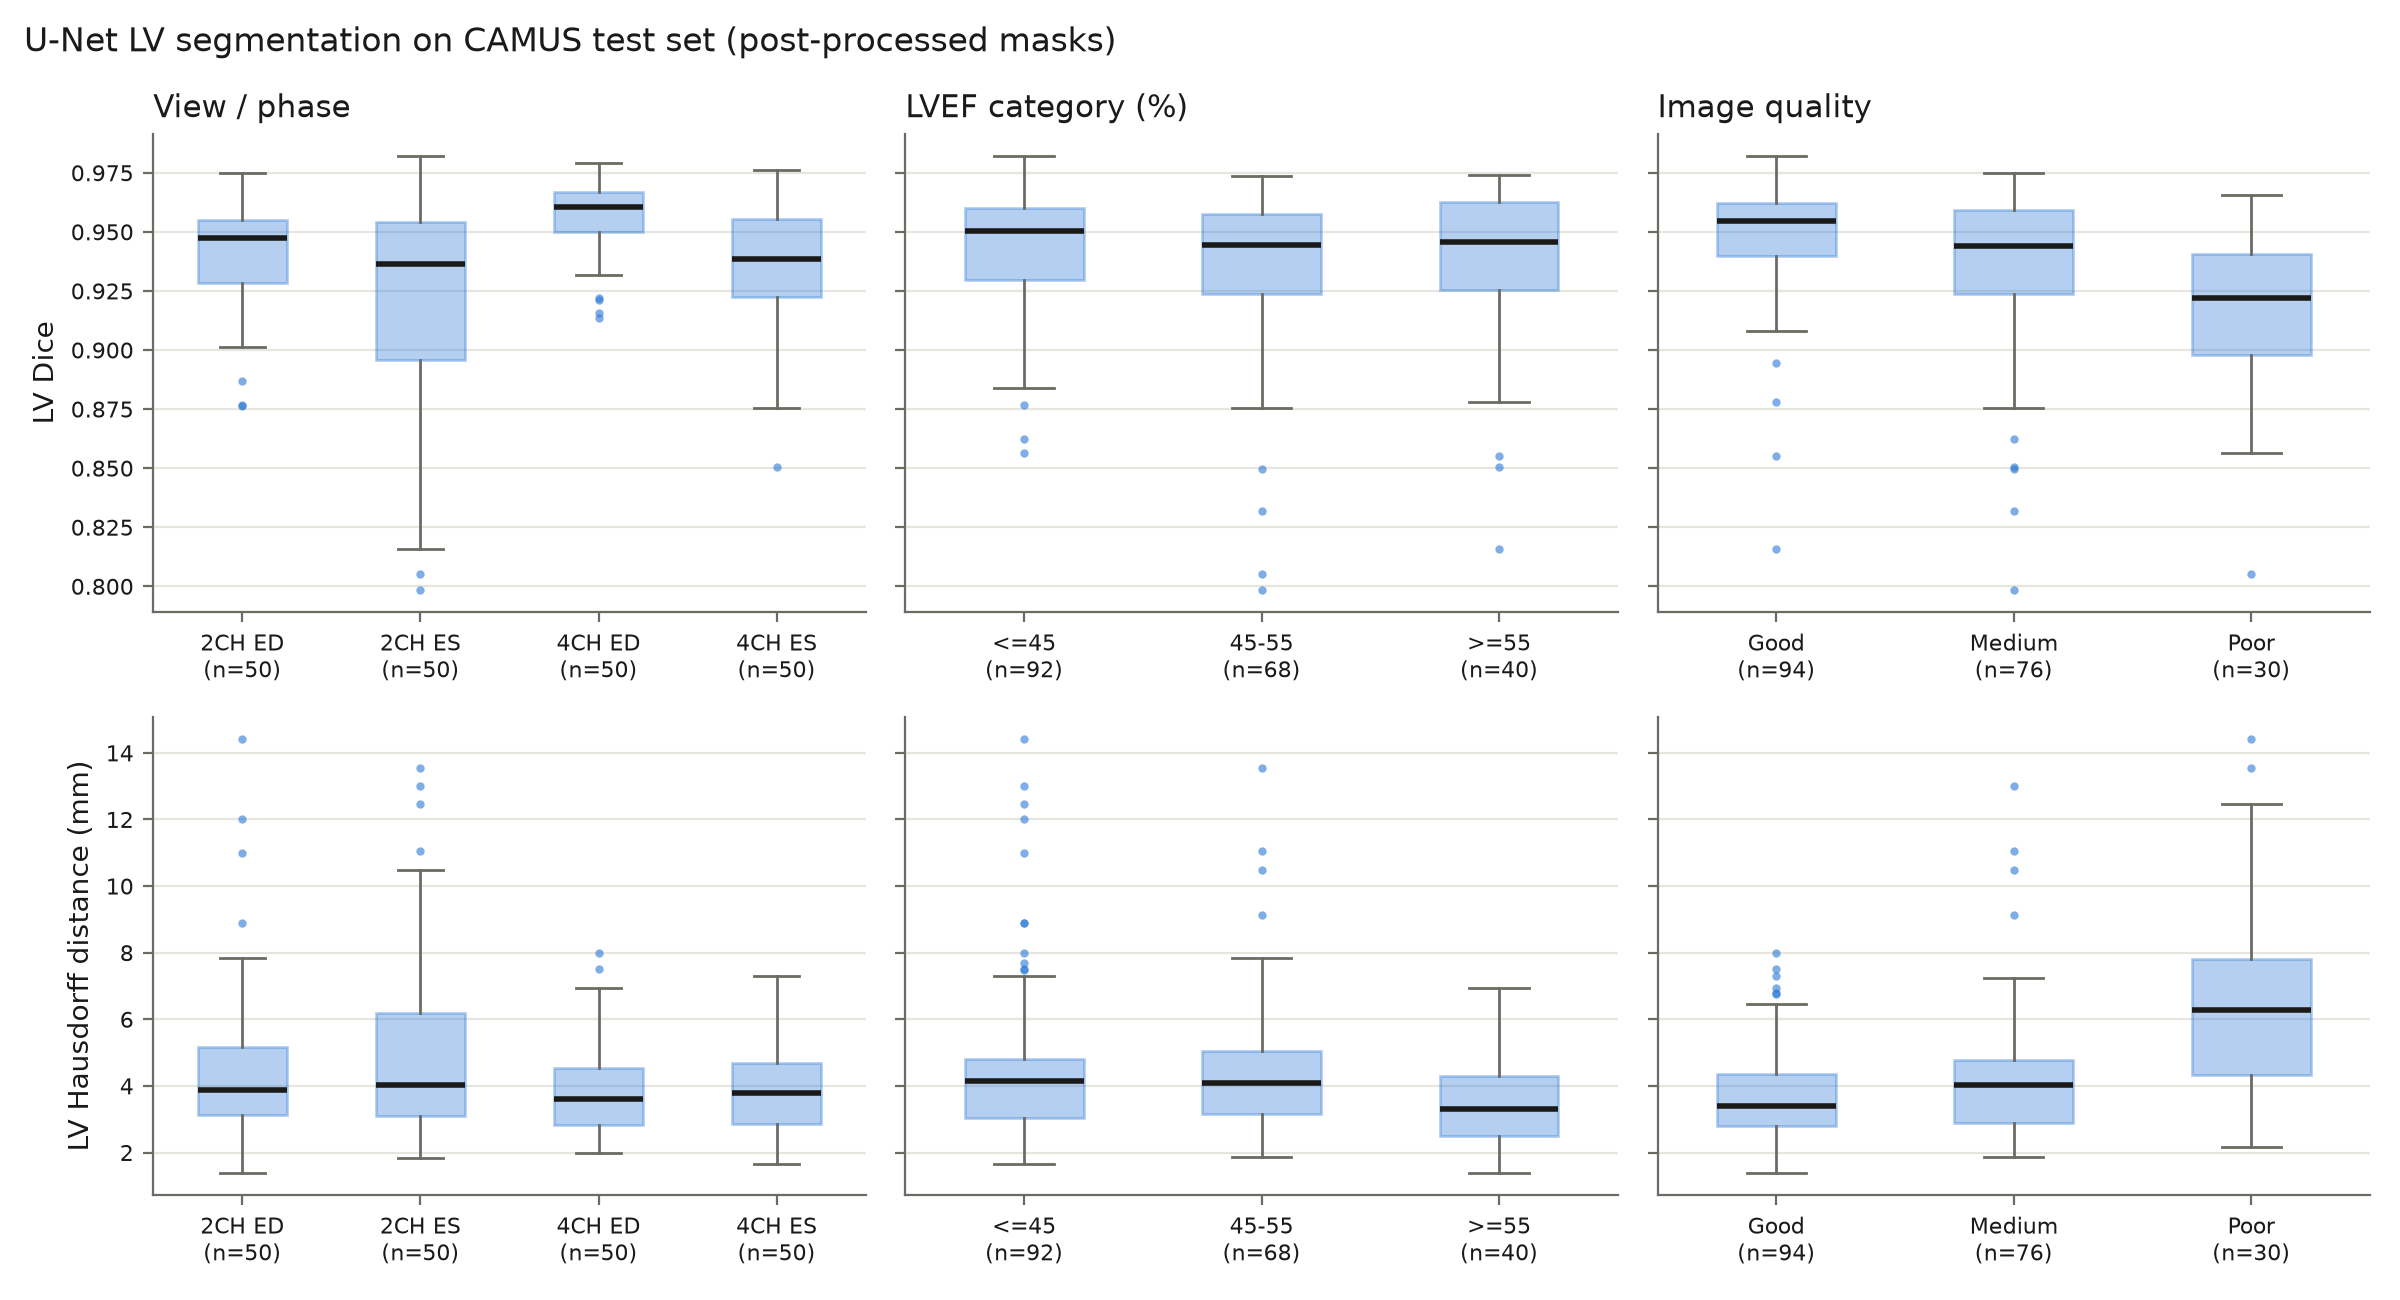
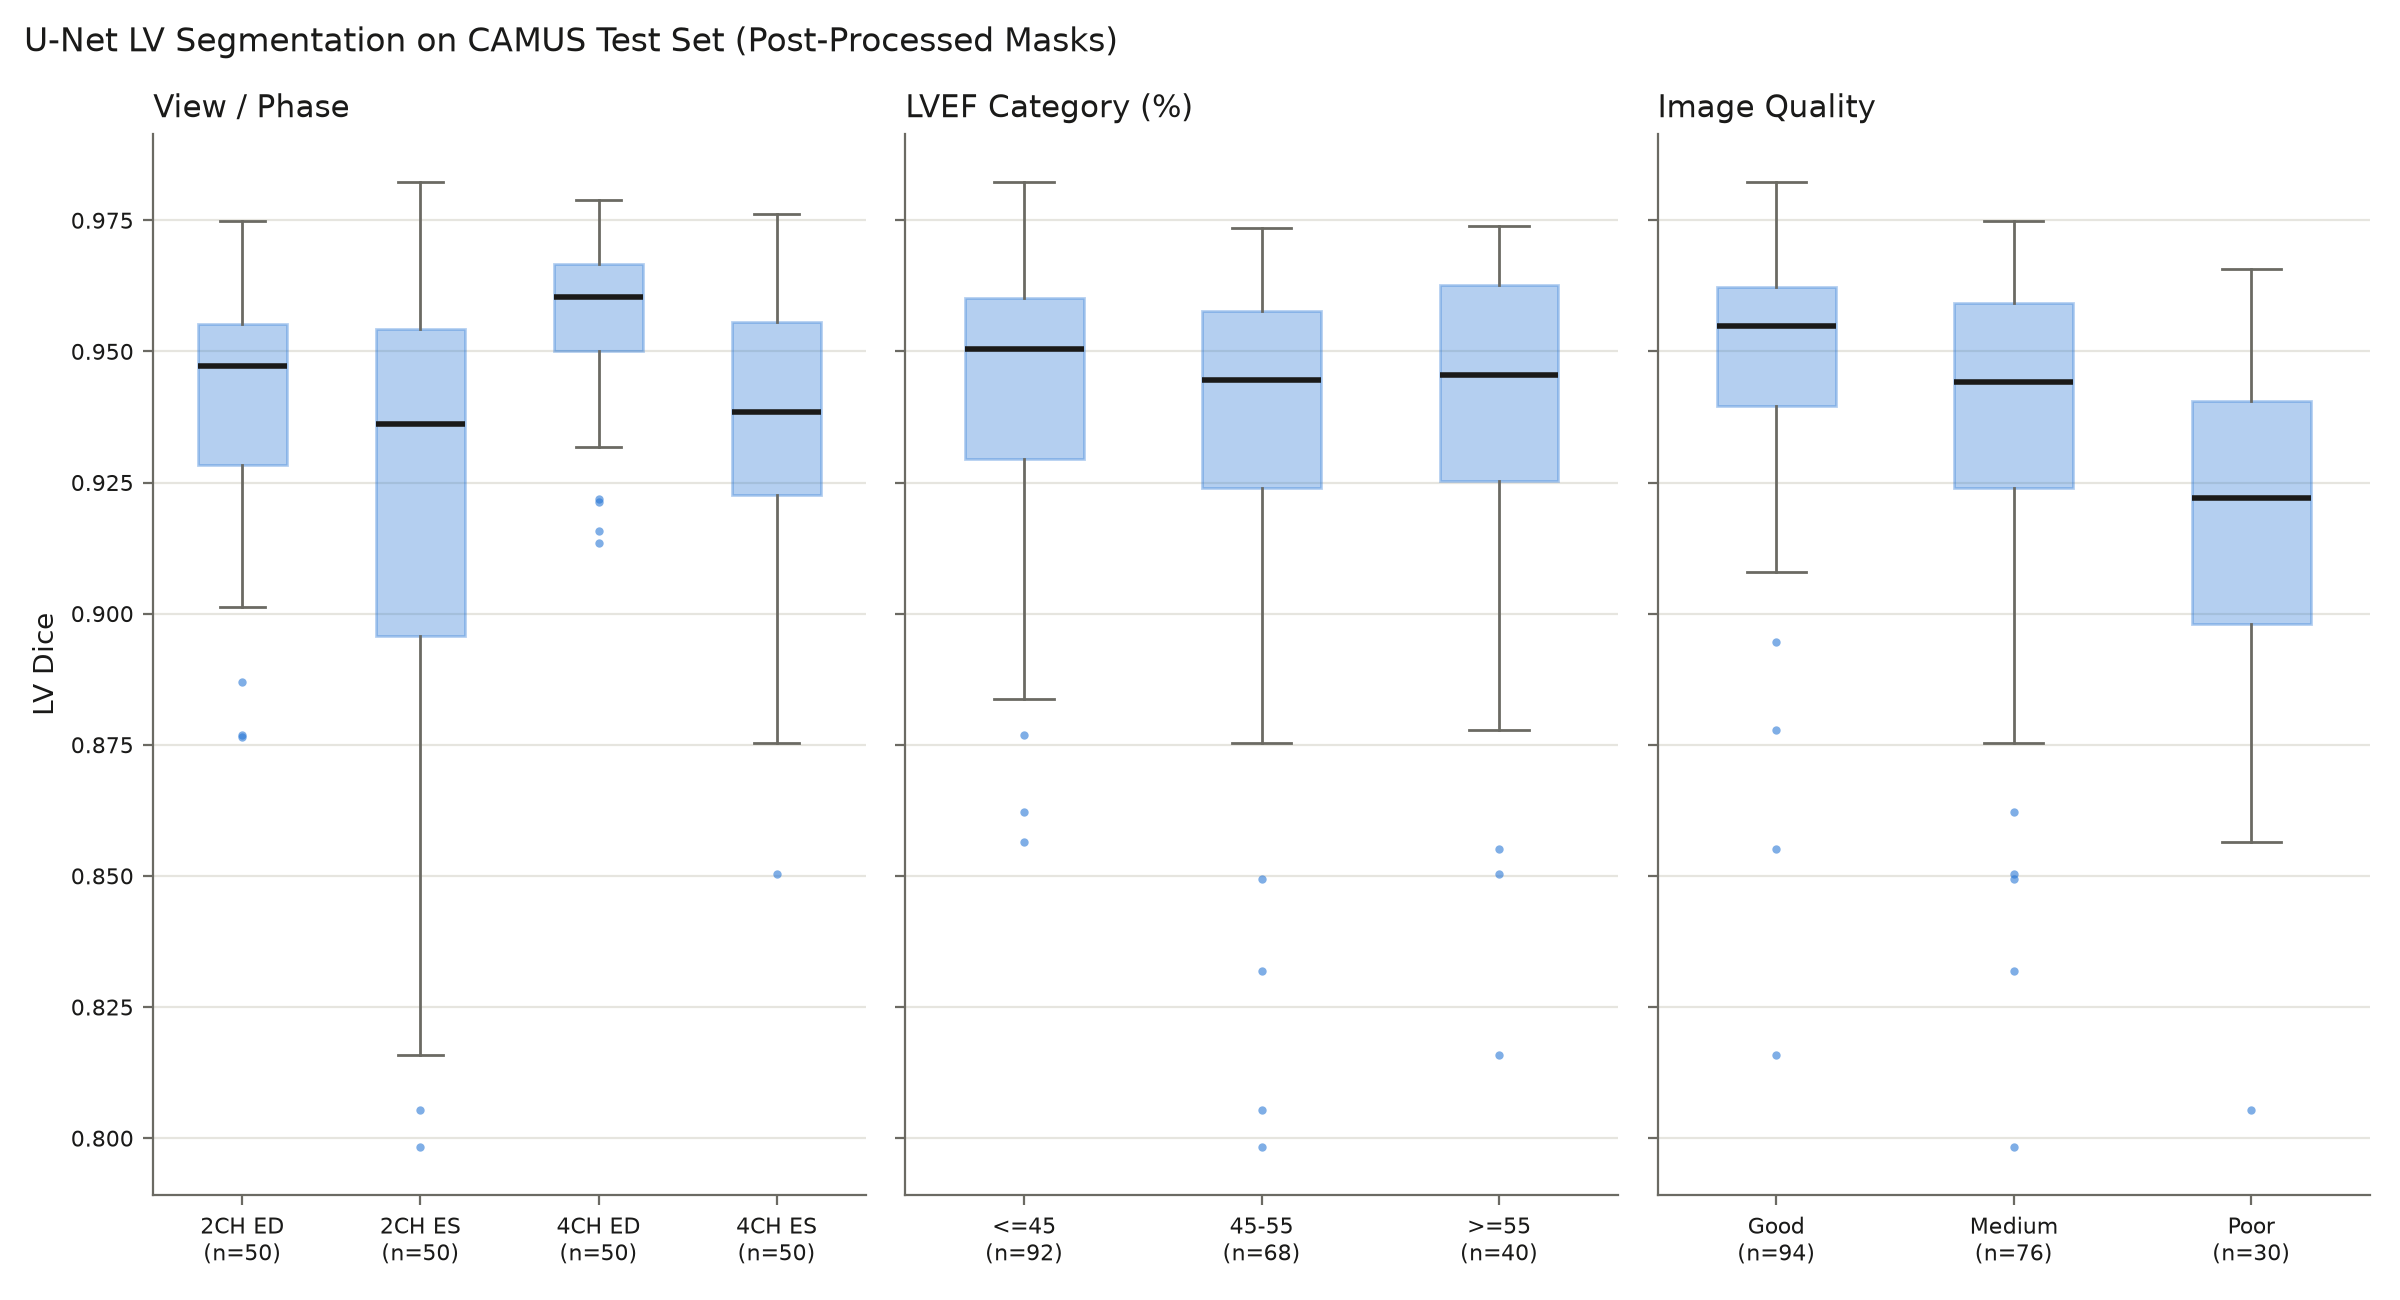
say

diff --git a/sayeh_training/evaluate_dice.py b/sayeh_training/evaluate_dice.py
@@ -83,23 +83,23 @@ def boxpanel(ax, groups, labels, ylabel):
 
 
 def plot(lv, path):
-    fig, axes = plt.subplots(2, 3, figsize=(12, 6.5), sharey="row")
+    fig, axes = plt.subplots(1, 3, figsize=(12, 6.5), sharey="row")
     vp = [(v, p) for v in VIEWS for p in PHASES]
     strat = [
-        ("View / phase", [f"{v} {p}" for v, p in vp],
+        ("View / Phase", [f"{v} {p}" for v, p in vp],
          [(lv.view == v) & (lv.phase == p) for v, p in vp]),
-        ("LVEF category (%)", [c for c in EF_ORDER if (lv.ef_category == c).any()],
+        ("LVEF Category (%)", [c for c in EF_ORDER if (lv.ef_category == c).any()],
          [lv.ef_category == c for c in EF_ORDER if (lv.ef_category == c).any()]),
-        ("Image quality", [q for q in Q_ORDER if (lv.quality == q).any()],
+        ("Image Quality", [q for q in Q_ORDER if (lv.quality == q).any()],
          [lv.quality == q for q in Q_ORDER if (lv.quality == q).any()]),
     ]
     for col, (title, labels, masks) in enumerate(strat):
-        boxpanel(axes[0, col], [lv.loc[m, "dice"].to_numpy() for m in masks], labels,
+        boxpanel(axes[col], [lv.loc[m, "dice"].to_numpy() for m in masks], labels,
                  "LV Dice" if col == 0 else "")
-        boxpanel(axes[1, col], [lv.loc[m, "hd_mm"].to_numpy() for m in masks], labels,
-                 "LV Hausdorff distance (mm)" if col == 0 else "")
-        axes[0, col].set_title(title, color=INK, fontsize=11, loc="left")
-    fig.suptitle("U-Net LV segmentation on CAMUS test set (post-processed masks)",
+        #boxpanel(axes[1, col], [lv.loc[m, "hd_mm"].to_numpy() for m in masks], labels,
+        #         "LV Hausdorff distance (mm)" if col == 0 else "")
+        axes[col].set_title(title, color=INK, fontsize=11, loc="left")
+    fig.suptitle("U-Net LV Segmentation on CAMUS Test Set (Post-Processed Masks)",
                  color=INK, fontsize=12, x=0.01, ha="left")
     fig.tight_layout()
     fig.savefig(path, dpi=200)
